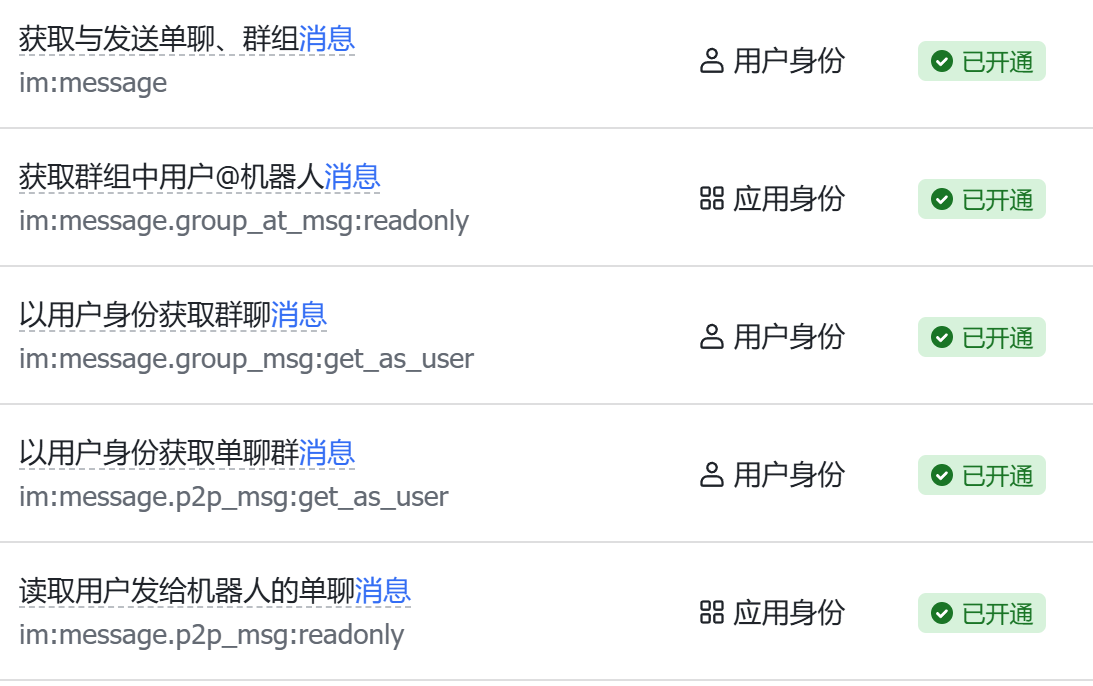
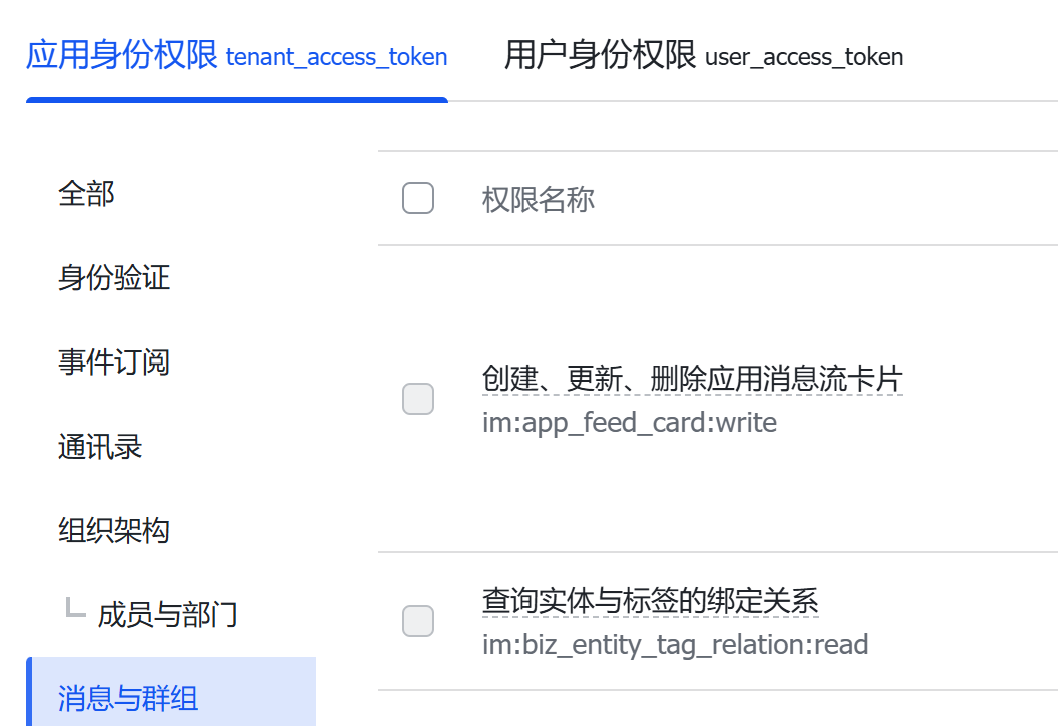
docs: update feishu permission guide

diff --git a/docs/user-guide/feishu-guide.html b/docs/user-guide/feishu-guide.html
@@ -329,11 +329,11 @@
                 <li>图片上传 / 图片读取</li>
                 <li>用户信息读取</li>
                 <li>通讯录 / 部门成员读取</li>
+                <li>获取群组信息</li>
               </ul>
-              <p>下面图片仅作示意图参考；如果你不确定具体要开哪些权限，也可以先全部开通。</p>
-              <img src="feishu-permissions-contacts.png" alt="飞书权限管理中与通讯录相关的权限示意">
-              <img src="feishu-permissions-resource.png" alt="飞书权限管理中与图片或文件资源相关的权限示意">
-              <img src="feishu-permissions-message.png" alt="飞书权限管理中与消息读取和发送相关的权限示意">
+              <p>下面图片仅作示意图参考；如果你不确定具体要开哪些权限，可以全选开通消息与群组、通讯录的全部权限。</p>
+              <img src="feishu-permissions-contacts.png" alt="飞书权限管理中与通讯录权限相关的示意图">
+              <img src="feishu-permissions-message.png" alt="飞书权限管理中与消息和群组权限相关的示意图">
             </div>
           </article>
 

diff --git a/docs/user-guide/FEISHU-GUIDE.zh.md b/docs/user-guide/FEISHU-GUIDE.zh.md
@@ -51,8 +51,9 @@
 - 图片上传 / 图片读取
 - 用户信息读取
 - 通讯录 / 部门成员读取
+- 获取群组信息
 
-如果你看到飞书后台里的权限名称和这里略有差异，按“用途”对应去开就可以。
+如果你不确定具体要开哪些权限，可以全选开通消息与群组、通讯录的全部权限。
 
 ### 事件订阅怎么配
 